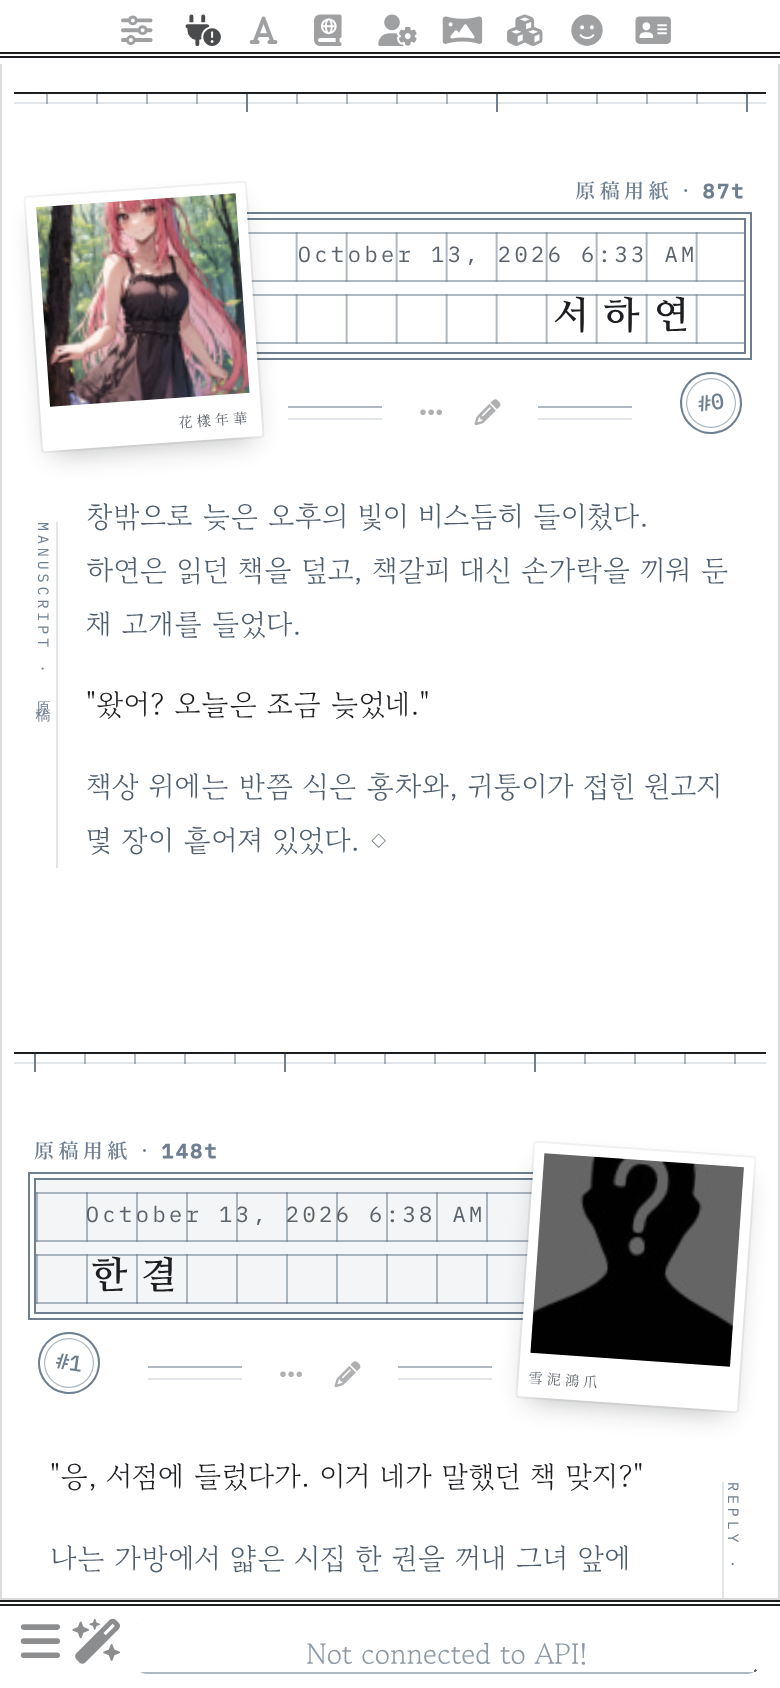
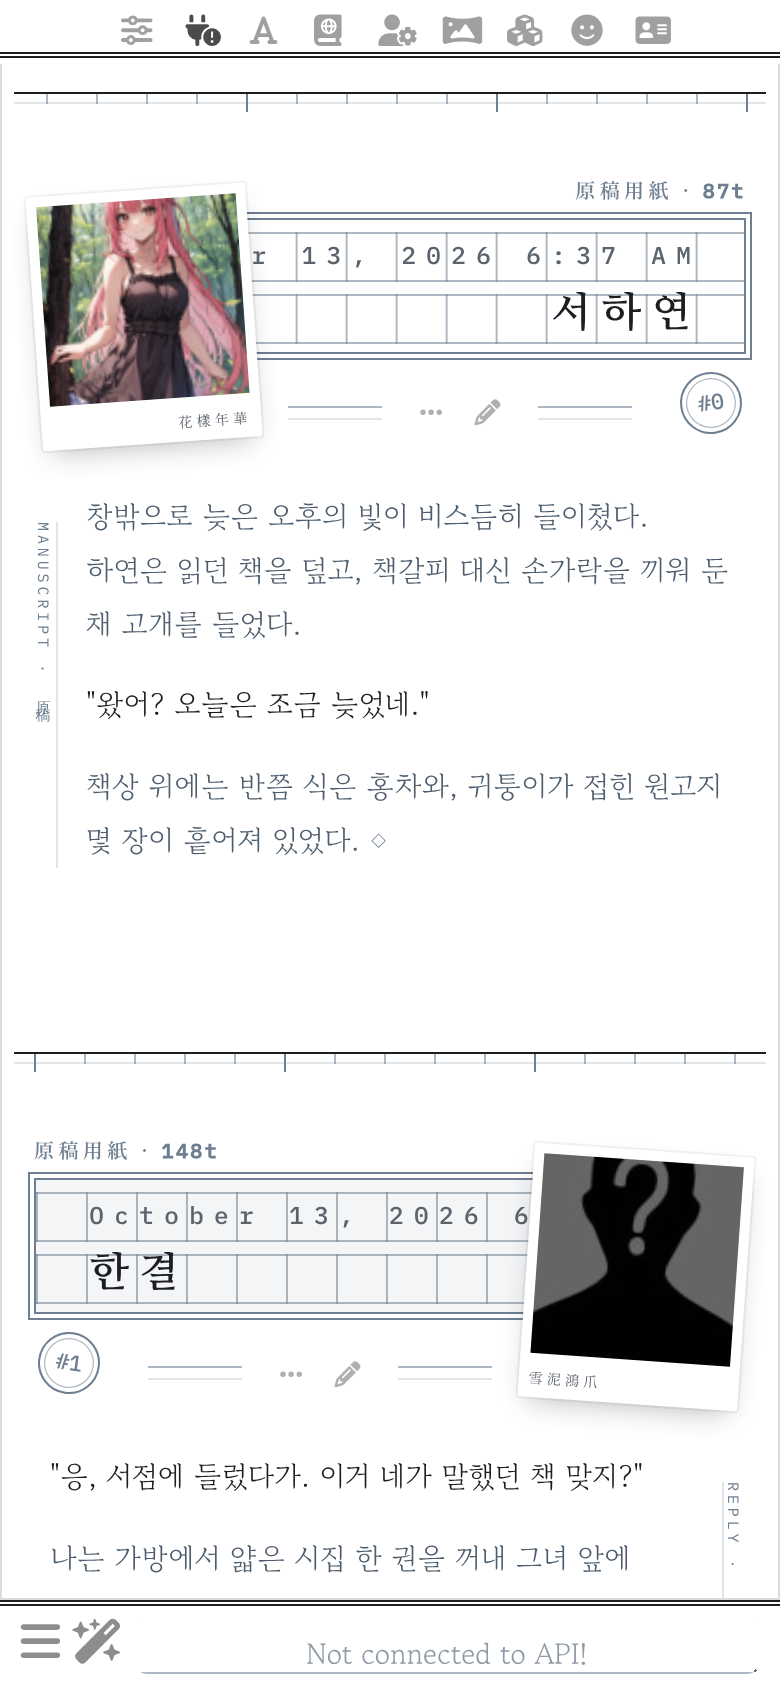
Wongoji: snap band text to manuscript cells
Add a composite cell font: Hangul from Nanum Myeongjo fills one cell,
while Latin letters, digits, punctuation and spaces come from a
size-adjusted IBM Plex Mono face and fill exactly half a cell (two per
cell, per manuscript rules). Name spaces take a full cell. Font size and
tracking derive from --wg-cell, so names and dates of any length stay on
the grid; long names are cut at a cell boundary.

Claude-Session: https://claude.ai/code/session_01VxNZVdN99GR1yFwUVAN4mT

diff --git a/src/wongoji.css b/src/wongoji.css
@@ -1,5 +1,16 @@
 @import url('https://fonts.googleapis.com/css2?family=Gowun+Batang:wght@400;700&family=Nanum+Myeongjo:wght@400;700;800&family=Noto+Serif+KR:wght@400;600&family=IBM+Plex+Mono:wght@400;500&display=swap');
 
+/* 원고지 칸 글꼴 — 한글은 나눔명조(한 칸), 영문·숫자·문장부호·띄어쓰기는
+   크기를 줄인 고정폭 글꼴(반 칸). 원고지 규칙대로 영문·숫자는 한 칸에 두 자. */
+@font-face {
+    font-family: 'WG Cell Latin';
+    src: url(https://fonts.gstatic.com/s/ibmplexmono/v20/-F6qfjptAgt5VM-kVkqdyU8n3twJwlBFgg.woff2) format('woff2');
+    font-weight: 100 900;
+    unicode-range: U+0000-00FF, U+0131, U+0152-0153, U+02BB-02BC, U+02C6, U+02DA, U+02DC, U+2000-206F, U+20AC, U+2122;
+    size-adjust: 58.333%;
+    font-display: swap;
+}
+
 /* ==========================================================================
    원고지 · Wongoji — SillyTavern theme
    흰 종이, 먹, 그리고 청회색으로 인쇄된 원고지 칸.
@@ -59,7 +70,6 @@
     /* 머리 원고지 띠 */
     --wg-cell: 32px;              /* 칸 */
     --wg-gap: 8px;                /* 줄 사이 틈 */
-    --wg-name-size: 24px;         /* 이름 글자 (칸보다 작게) */
     --wg-pad: 74px;               /* 구분선과 띠 사이 */
     --wg-after: 108px;            /* 본문 끝과 다음 구분선 사이 */
     --wg-side: 18px;
@@ -68,8 +78,6 @@
     --wg-frame: 7px;
     --wg-chin: 28px;
     --wg-tilt: -4deg;
-
-    --wg-ts-per: 2;               /* 날짜: 한 칸에 몇 자 */
 
     /* 상단 메뉴 · 입력창 아이콘 */
     --topBarIconSize: calc(var(--mainFontSize) * 0.95);
@@ -83,9 +91,7 @@
 @media (max-width: 600px) {
     :root {
         --wg-cell: 25px;
-        --wg-ts-per: 3;
         --wg-gap: 6px;
-        --wg-name-size: 19px;
         --wg-pad: 62px;
         --wg-after: 92px;
         --wg-side: 10px;
@@ -191,7 +197,10 @@ body {
     --wg-band-near: calc(var(--wg-side) + var(--wg-pol-w) * 0.42);
     --wg-band-far: var(--wg-side);
     --wg-row: calc(var(--wg-pad) + var(--wg-gap));
-    --wg-track: calc(var(--wg-cell) - var(--wg-name-size) * 0.95);
+    /* 칸 글꼴: 한글 0.95em + 자간 0.25em = 한 칸, 영문 0.35em + 자간 = 반 칸 */
+    --wg-cell-font: calc(var(--wg-cell) / 1.2);
+    --wg-track: calc(var(--wg-cell-font) * 0.25);
+    --wg-cell-family: 'WG Cell Latin', 'Nanum Myeongjo', 'Noto Serif KR', serif;
     --wg-band-bg: var(--wg-paper);
 
     display: block;
@@ -334,24 +343,25 @@ body {
     z-index: 1;
 }
 
-/* 첫째 줄 — 날짜. 원고지 규칙대로 숫자·영문은 한 칸에 두 자씩 (좁은 화면은 세 자) */
+/* 첫째 줄 — 날짜. 숫자·영문은 한 칸에 두 자, 한글은 한 칸에 한 자 */
 #chat .mes .timestamp {
-    --wg-ts-size: 11px;
-    --wg-ts-track: calc(var(--wg-cell) / var(--wg-ts-per) - 0.6 * var(--wg-ts-size));
     position: absolute;
     top: var(--wg-row);
-    right: calc(var(--wg-band-far) + var(--wg-cell) - var(--wg-ts-track) / 2);
-    max-width: calc(100% - var(--wg-side) - var(--wg-pol-w) - var(--wg-band-far) - var(--wg-cell) - 6px);
+    right: calc(var(--wg-band-far) + var(--wg-cell) - var(--wg-track) / 2);
+    /* 띠 안에서만. 길면 앞부분이 폴라로이드 아래로 들어갑니다 */
+    max-width: calc(100% - var(--wg-band-near) - var(--wg-band-far) - var(--wg-cell));
     height: var(--wg-cell);
-    line-height: var(--wg-cell);
+    display: flex;
+    justify-content: flex-end;
     margin: 0;
     padding: 0;
     overflow: hidden;
-    text-overflow: clip;
-    font-family: var(--wg-mono);
-    font-size: var(--wg-ts-size);
+    font-family: var(--wg-cell-family);
+    font-size: var(--wg-cell-font);
     font-weight: 400;
-    letter-spacing: var(--wg-ts-track);
+    line-height: var(--wg-cell);
+    letter-spacing: var(--wg-track);
+    word-spacing: 0;
     color: var(--wg-ink-soft);
     opacity: 1;
     white-space: nowrap;
@@ -434,7 +444,7 @@ body.no-tokenCount #chat .mes .ch_name::after {
     z-index: 1;
 }
 
-/* 둘째 줄 — 이름. 끝 한 칸을 비우고 한 칸에 한 글자씩 */
+/* 둘째 줄 — 이름. 끝 한 칸을 비우고 한 칸에 한 글자씩 (영문은 두 자) */
 #chat .mes .mes_block,
 #chat .mes .ch_name,
 #chat .mes .ch_name > .flex-container,
@@ -446,16 +456,19 @@ body.no-tokenCount #chat .mes .ch_name::after {
     position: absolute;
     top: calc(var(--wg-row) + var(--wg-pitch));
     right: calc(var(--wg-band-far) + var(--wg-cell) - var(--wg-track) / 2);
-    max-width: calc(100% - var(--wg-side) - var(--wg-pol-w) - var(--wg-band-far) - var(--wg-cell) - 6px);
+    /* 폴라로이드에 가리지 않는 칸 수만큼. 넘치면 칸 경계에서 자릅니다 */
+    max-width: round(down, calc(100% - var(--wg-side) - var(--wg-pol-w) - var(--wg-band-far) - var(--wg-cell) - 4px), var(--wg-cell));
     height: var(--wg-cell);
     line-height: var(--wg-cell);
     overflow: hidden;
-    text-overflow: ellipsis;
+    text-overflow: clip;
     white-space: nowrap;
-    font-family: var(--wg-title);
-    font-size: var(--wg-name-size);
+    font-family: var(--wg-cell-family);
+    font-size: var(--wg-cell-font);
     font-weight: 700;
     letter-spacing: var(--wg-track);
+    /* 띄어쓰기도 한 칸 */
+    word-spacing: calc(var(--wg-cell) / 2);
     color: var(--wg-ink);
     text-align: right;
     z-index: 1;
@@ -910,7 +923,8 @@ body.no-tokenCount #chat .mes .ch_name::after {
 
 #chat .mes[is_user="true"] .timestamp {
     right: auto;
-    left: calc(var(--wg-band-far) + var(--wg-cell) + var(--wg-ts-track) / 2);
+    left: calc(var(--wg-band-far) + var(--wg-cell) + var(--wg-track) / 2);
+    justify-content: flex-start;
 }
 
 #chat .mes[is_user="true"] .mes_timer {

diff --git a/README.md b/README.md
@@ -10,8 +10,9 @@ SillyTavern UI 테마입니다. 흰 바탕과 먹, 청회색으로 인쇄된 원
 
 - **구분선**: 메시지 사이에는 원고지 낱장의 머리처럼 칸마다 눈금을 새긴 자가 놓입니다. 다섯 칸마다 긴 눈금이 들어갑니다.
 - **원고지 띠**: 메시지마다 정사각 칸과 줄 사이 틈, 이중 테두리로 된 원고지 두 줄이 붙습니다.
-  - 첫째 줄: 날짜를 원고지 규칙대로 숫자·영문 두 자에 한 칸씩 (좁은 화면에서는 세 자)
-  - 둘째 줄: 이름을 한 칸에 한 글자씩. 모두 끝 한 칸을 비우고 적습니다.
+  - 첫째 줄: 날짜
+  - 둘째 줄: 이름. 끝 한 칸을 비우고 적습니다.
+  - 두 줄 모두 원고지 쓰기 규칙대로 칸에 맞춰집니다. 한글은 한 칸에 한 자, 영문·숫자는 한 칸에 두 자, 이름의 띄어쓰기는 한 칸입니다. 이름이 길면 칸 경계에서 잘리고, 날짜가 길면 앞부분이 폴라로이드 아래로 들어갑니다.
   - 띠 위 여백에는 `原稿用紙 · 412t`처럼 메시지의 토큰 수가 인쇄됩니다. 토큰 수 표시(Message Token Count)를 끄면 `原稿用紙`만 남습니다.
   - 띠 끝 아래에는 채팅 번호가 원형 도장으로 찍힙니다.
 - **폴라로이드**: 아바타는 컬러 폴라로이드로 띠 위에 비스듬히 겹쳐 놓입니다. 아래 여백 구석에는 사자성어가 명조체로 작게 인쇄됩니다. 캐릭터는 `花樣年華`(화양연화, 인생에서 가장 아름다운 한때), 유저는 `雪泥鴻爪`(설니홍조, 눈 위에 남은 기러기 발자국처럼 덧없는 삶의 흔적)이고, 원하는 글귀로 쉽게 바꿀 수 있습니다(아래 참고).
@@ -58,8 +59,7 @@ SillyTavern → 사용자 설정 → **Custom CSS** 맨 위에서 아래 두 줄
 | `--wg-pad`, `--wg-after` | 구분선 아래 여백, 본문 끝과 다음 구분선 사이 여백 |
 | `--wg-paper-label` | 띠 위 여백에 인쇄되는 이름 (기본 `原稿用紙`) |
 | `--wg-stamp-size` | 번호 도장 지름 |
-| `--wg-ts-per` | 날짜를 한 칸에 몇 자씩 적을지 |
-| `--wg-cell`, `--wg-gap`, `--wg-name-size` | 머리 원고지 칸, 줄 사이 틈, 이름 글자 크기 |
+| `--wg-cell`, `--wg-gap` | 머리 원고지 칸 크기, 줄 사이 틈. 이름·날짜 글자 크기는 칸에 맞춰 자동으로 정해집니다 |
 | `--wg-text`, `--wg-lh`, `--wg-measure` | 본문 글자 크기, 행간, 좌우 여백. 설정의 Font Scale도 함께 반영됩니다 |
 | `--wg-spine-char`, `--wg-spine-user`, `--wg-endmark` | 책등 세로 표기와 글 끝 기호 |
 | `--topBarIconSize`, `--bottomFormIconSize` | 상단 메뉴 · 입력창 아이콘 크기 |
